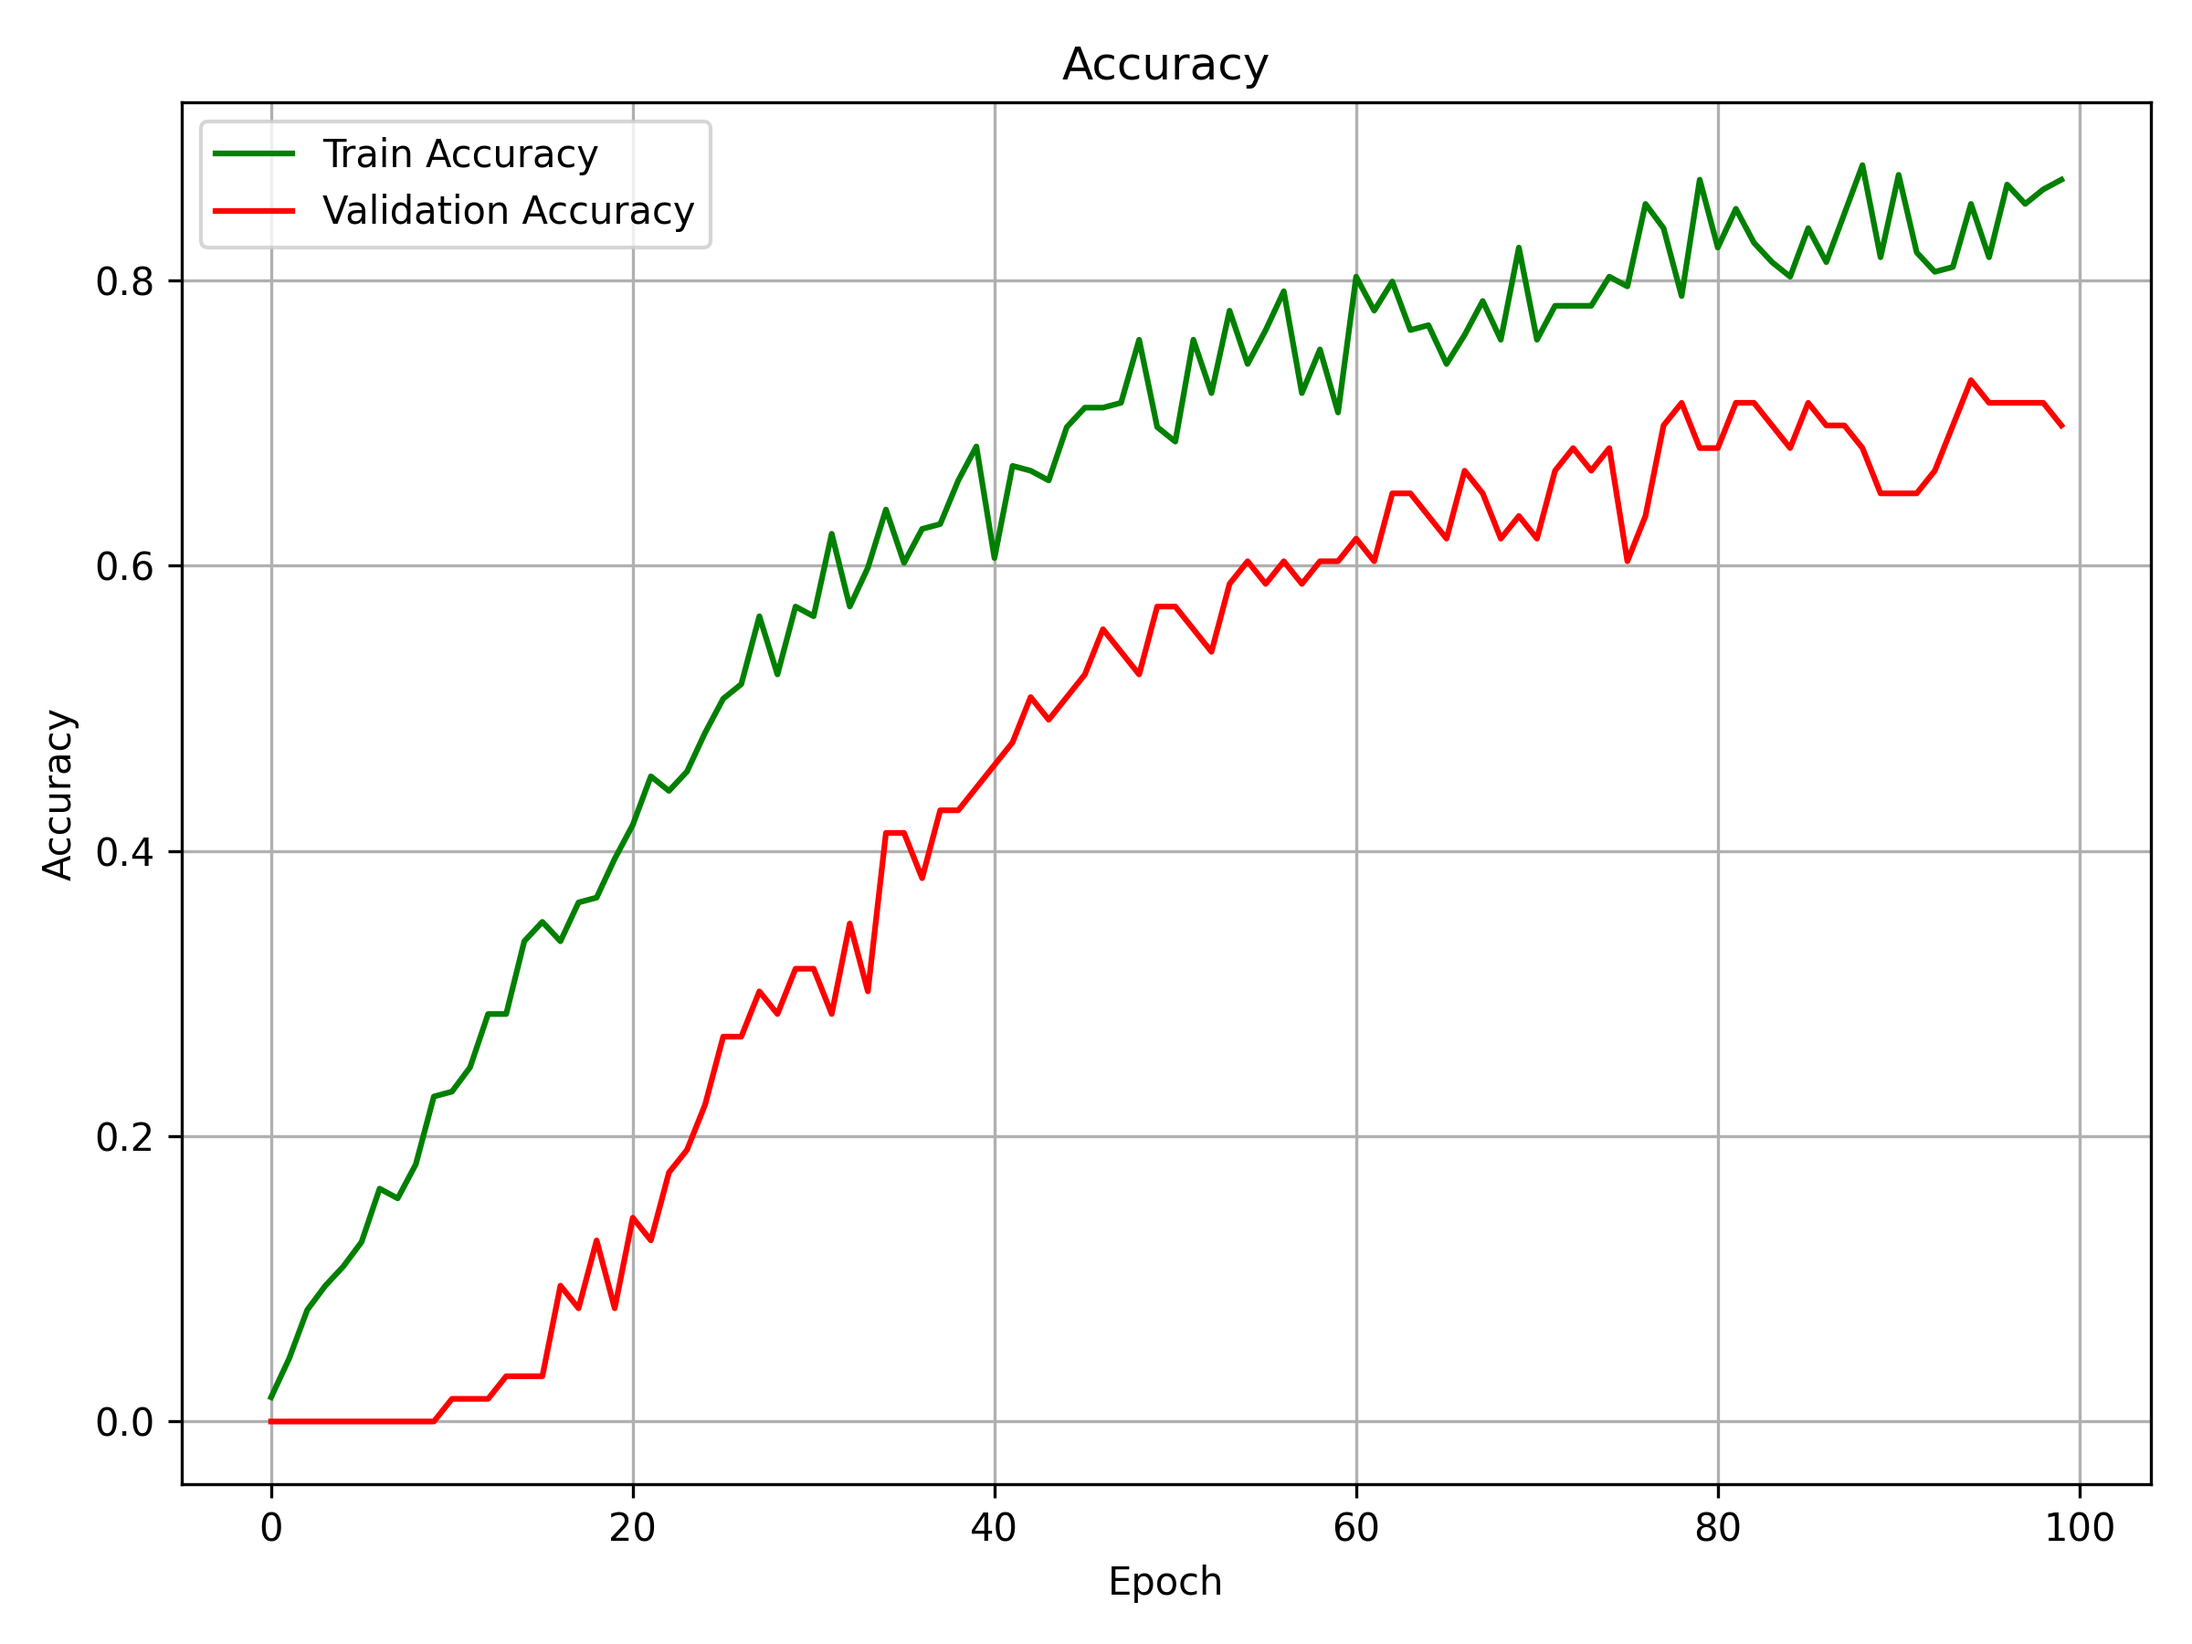
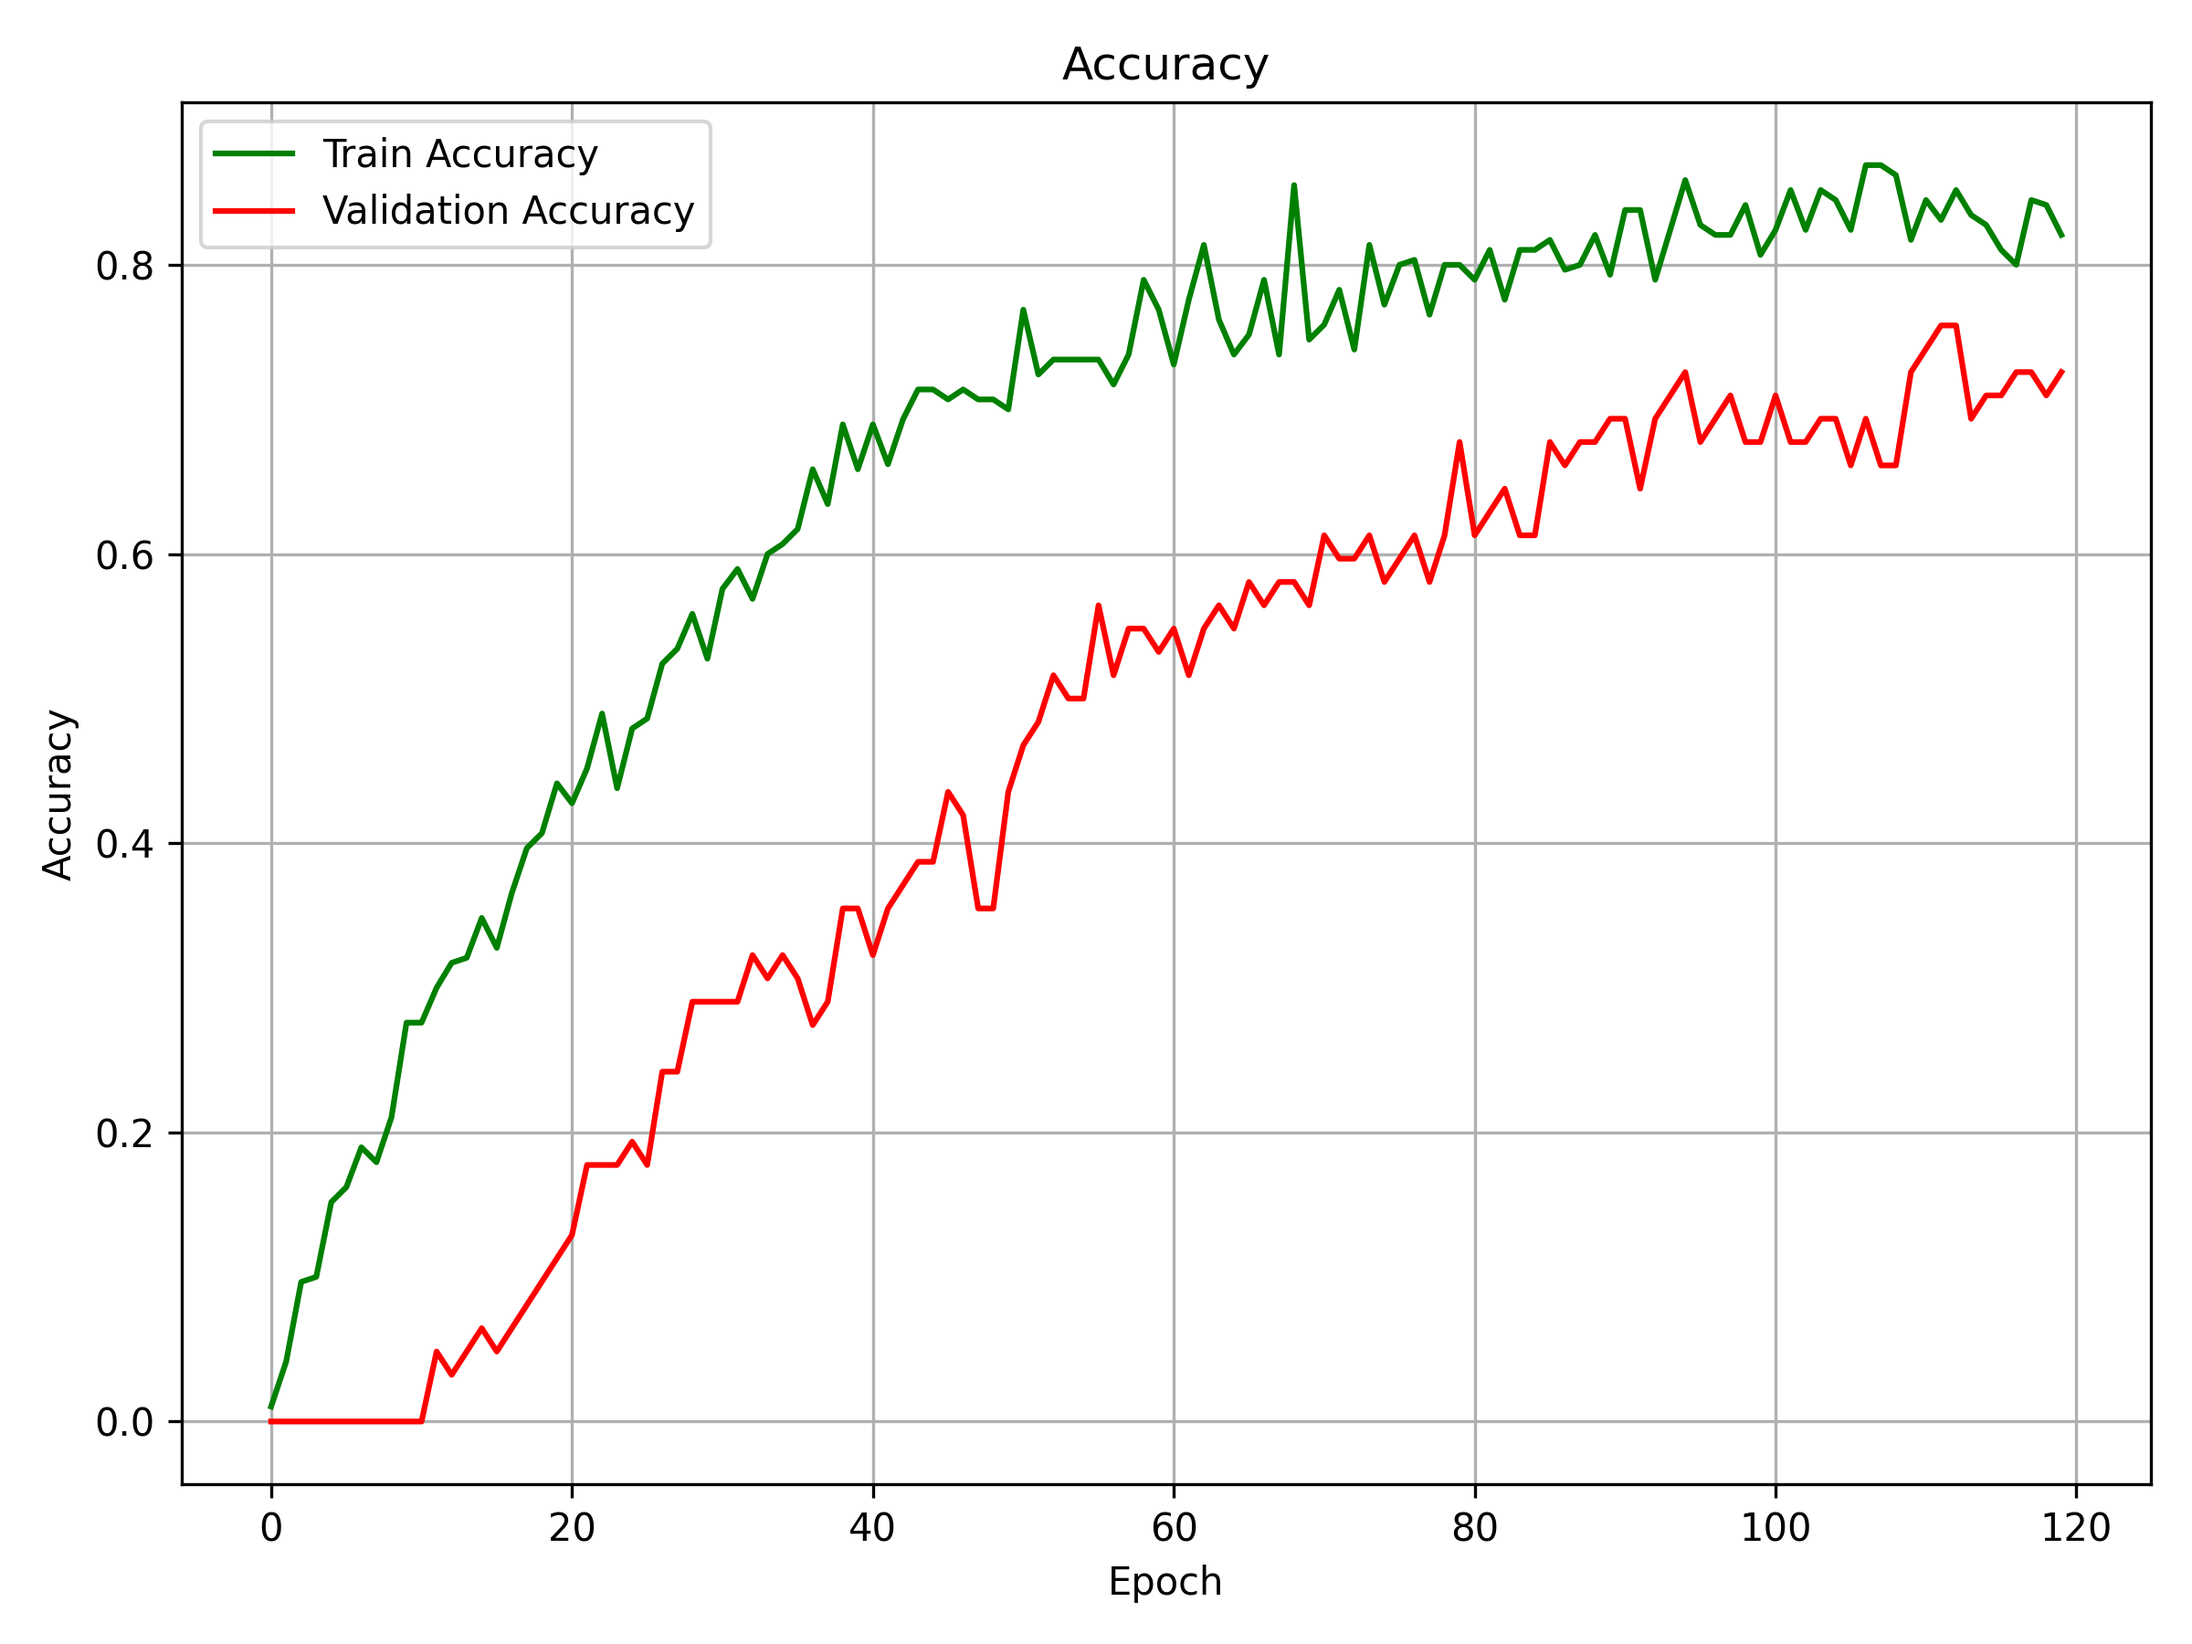
last

diff --git a/run.py b/run.py
@@ -19,10 +19,9 @@ def run_training():
     csv_path = 'dataset_features_final.csv'
     batch_size = 32
     lr = 1e-3
-    num_epochs = 100
+    num_epochs = 120
     patience = 20
     seed = 0
-    val_split = 0.2
 
     # === Seed per riproducibilità ===
     '''random.seed(seed)
@@ -39,7 +38,7 @@ def run_training():
 
 
     train_loader = DataLoader(train_dataset, batch_size=batch_size, shuffle=True)
-    val_loader = DataLoader(val_dataset, batch_size=batch_size, shuffle=False)
+    val_loader = DataLoader(val_dataset, batch_size=batch_size, shuffle=True)
 
     input_dim = train_dataset[0][0].shape[0]
     num_classes = len(label_encoder.classes_)

diff --git a/test.py b/test.py
@@ -103,7 +103,7 @@ def run_test():
 
     # Load test data
     _, _, test_dataset, label_encoder = load_data(csv_path)
-    test_loader = DataLoader(test_dataset, batch_size=batch_size, shuffle=False)
+    test_loader = DataLoader(test_dataset, batch_size=batch_size, shuffle=True)
 
     input_dim = test_dataset[0][0].shape[0]
     num_classes = len(label_encoder.classes_)

diff --git a/landmarks.py b/landmarks.py
@@ -402,9 +402,3 @@ def process_folder_to_csv(folder_path, output_csv):
             except Exception as e:
                 print(f"Errore durante l'elaborazione di {rgb_file}: {str(e)}")
 
-feature_vector = landmarks_dist(
-    png='ale1_Color.png',
-    raw='ale1_Depth.raw',
-    identity='identity',
-    expression='expression'
-)
